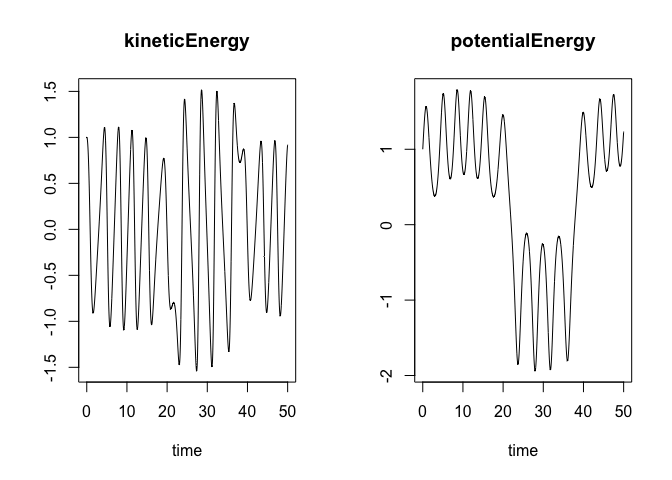
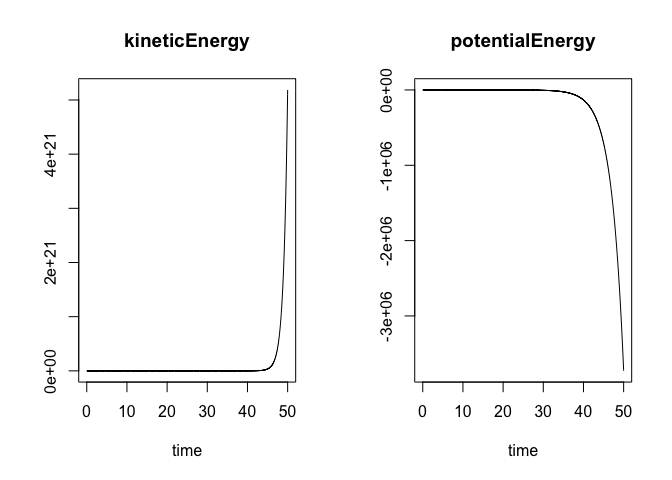
bistable

diff --git a/porting-bistable-oscillator-plus-excitation/README.md b/porting-bistable-oscillator-plus-excitation/README.md
@@ -1,15 +1,6 @@
 simecol bistable
 ================
 
-### vensim mode 
- 
-
-![alt text](bso/bistableOscExitation.png "optional title")
-
-
-### simecol mode 
-
-
 ``` r
 library("simecol")
 ```
@@ -32,7 +23,7 @@ bis.model <- new("odeModel",                   # object class = 'odeModel'
             kineticEnergy <- changedt
             potentialEnergy <- change0dt
             
-            list(c(potentialEnergy, kineticEnergy))    # object attributes (data) 
+            list(c(kineticEnergy, potentialEnergy))    # object attributes (data) 
             
             # change0 = potential energy - POWER(potential energy ,3)  - friction*kinetic energy + Excitation
             # change = kinetic energy
@@ -49,7 +40,7 @@ bis.model <- new("odeModel",                   # object class = 'odeModel'
         times = seq(0, 50, .015625),
         parms = c(factor=1, friction=.01),
         init = c(kineticEnergy=1, potentialEnergy=1),
-        solver = "rk4"                      # 'lsoda' available for 'odemodel' class
+        solver = "lsoda"                      # 'lsoda' available for 'odemodel' class
         
       )
 ```
@@ -93,12 +84,12 @@ head(out(bis.sim))
 ```
 
     ##       time kineticEnergy potentialEnergy
-    ## 1 0.000000     1.0000000        1.000000
-    ## 2 0.015625     0.9996153        1.015623
-    ## 3 0.031250     0.9987583        1.031236
-    ## 4 0.046875     0.9974063        1.046831
-    ## 5 0.062500     0.9955364        1.062402
-    ## 6 0.078125     0.9931257        1.077939
+    ## 1 0.000000      1.000000       1.0000000
+    ## 2 0.015625      1.015748       0.9998641
+    ## 3 0.031250      1.031744       0.9997681
+    ## 4 0.046875      1.047992       0.9997109
+    ## 5 0.062500      1.064495       0.9996914
+    ## 6 0.078125      1.081259       0.9997081
 
 ``` r
 main(bis.sim)
@@ -117,7 +108,7 @@ main(bis.sim)
     ##             kineticEnergy <- changedt
     ##             potentialEnergy <- change0dt
     ##             
-    ##             list(c(potentialEnergy, kineticEnergy))    # object attributes (data) 
+    ##             list(c(kineticEnergy, potentialEnergy))    # object attributes (data) 
     ##             
     ##             # change0 = potential energy - POWER(potential energy ,3)  - friction*kinetic energy + Excitation
     ##             # change = kinetic energy
@@ -172,7 +163,7 @@ equations(bis.sim)
 solver(bis.sim)
 ```
 
-    ## [1] "rk4"
+    ## [1] "lsoda"
 
 ``` r
 class(bis.sim)
@@ -194,29 +185,30 @@ str(bis.sim)
     ##   ..@ observer : NULL
     ##   ..@ main     :function (times, y, parms)  
     ##   .. ..- attr(*, "srcref")=Class 'srcref'  atomic [1:8] 6 17 26 10 17 10 6 26
-    ##   .. .. .. ..- attr(*, "srcfile")=Classes 'srcfilecopy', 'srcfile' <environment: 0x7fabdbf14348> 
+    ##   .. .. .. ..- attr(*, "srcfile")=Classes 'srcfilecopy', 'srcfile' <environment: 0x7fd3f45f3348> 
     ##   ..@ equations:List of 4
     ##   .. ..$ excite :function (i)  
     ##   .. .. ..- attr(*, "srcref")=Class 'srcref'  atomic [1:8] 28 21 28 51 21 51 28 28
-    ##   .. .. .. .. ..- attr(*, "srcfile")=Classes 'srcfilecopy', 'srcfile' <environment: 0x7fabdbf14348> 
+    ##   .. .. .. .. ..- attr(*, "srcfile")=Classes 'srcfilecopy', 'srcfile' <environment: 0x7fd3f45f3348> 
     ##   .. ..$ power  :function (i)  
     ##   .. .. ..- attr(*, "srcref")=Class 'srcref'  atomic [1:8] 29 20 29 36 20 36 29 29
-    ##   .. .. .. .. ..- attr(*, "srcfile")=Classes 'srcfilecopy', 'srcfile' <environment: 0x7fabdbf14348> 
+    ##   .. .. .. .. ..- attr(*, "srcfile")=Classes 'srcfilecopy', 'srcfile' <environment: 0x7fd3f45f3348> 
     ##   .. ..$ change :function (i)  
     ##   .. .. ..- attr(*, "srcref")=Class 'srcref'  atomic [1:8] 30 21 30 35 21 35 30 30
-    ##   .. .. .. .. ..- attr(*, "srcfile")=Classes 'srcfilecopy', 'srcfile' <environment: 0x7fabdbf14348> 
+    ##   .. .. .. .. ..- attr(*, "srcfile")=Classes 'srcfilecopy', 'srcfile' <environment: 0x7fd3f45f3348> 
     ##   .. ..$ change0:function (h, i, j, k, t)  
     ##   .. .. ..- attr(*, "srcref")=Class 'srcref'  atomic [1:8] 31 22 31 83 22 83 31 31
-    ##   .. .. .. .. ..- attr(*, "srcfile")=Classes 'srcfilecopy', 'srcfile' <environment: 0x7fabdbf14348> 
+    ##   .. .. .. .. ..- attr(*, "srcfile")=Classes 'srcfilecopy', 'srcfile' <environment: 0x7fd3f45f3348> 
     ##   ..@ times    : num [1:3201] 0 0.0156 0.0312 0.0469 0.0625 ...
     ##   ..@ inputs   : NULL
-    ##   ..@ solver   : chr "rk4"
+    ##   ..@ solver   : chr "lsoda"
     ##   ..@ out      : deSolve [1:3201, 1:3] 0 0.0156 0.0312 0.0469 0.0625 ...
-    ##   .. ..- attr(*, "istate")= int [1:21] 0 3200 12801 NA NA NA NA NA NA NA ...
     ##   .. ..- attr(*, "dimnames")=List of 2
     ##   .. .. ..$ : NULL
     ##   .. .. ..$ : chr [1:3] "time" "kineticEnergy" "potentialEnergy"
+    ##   .. ..- attr(*, "istate")= int [1:21] 2 3470 5038 NA 3 3 0 52 22 NA ...
+    ##   .. ..- attr(*, "rstate")= num [1:5] 0.0156 0.0156 50.0035 0 11.6216
     ##   .. ..- attr(*, "lengthvar")= int 2
     ##   .. ..- attr(*, "class")= chr [1:2] "deSolve" "matrix"
-    ##   .. ..- attr(*, "type")= chr "rk"
+    ##   .. ..- attr(*, "type")= chr "lsoda"
     ##   ..@ initfunc : NULL

diff --git a/porting-bistable-oscillator-plus-excitation/bistableOscExc.md b/porting-bistable-oscillator-plus-excitation/bistableOscExc.md
@@ -23,7 +23,7 @@ bis.model <- new("odeModel",                   # object class = 'odeModel'
             kineticEnergy <- changedt
             potentialEnergy <- change0dt
             
-            list(c(potentialEnergy, kineticEnergy))    # object attributes (data) 
+            list(c(kineticEnergy, potentialEnergy))    # object attributes (data) 
             
             # change0 = potential energy - POWER(potential energy ,3)  - friction*kinetic energy + Excitation
             # change = kinetic energy
@@ -40,7 +40,7 @@ bis.model <- new("odeModel",                   # object class = 'odeModel'
         times = seq(0, 50, .015625),
         parms = c(factor=1, friction=.01),
         init = c(kineticEnergy=1, potentialEnergy=1),
-        solver = "rk4"                      # 'lsoda' available for 'odemodel' class
+        solver = "lsoda"                      # 'lsoda' available for 'odemodel' class
         
       )
 ```
@@ -84,12 +84,12 @@ head(out(bis.sim))
 ```
 
     ##       time kineticEnergy potentialEnergy
-    ## 1 0.000000     1.0000000        1.000000
-    ## 2 0.015625     0.9996153        1.015623
-    ## 3 0.031250     0.9987583        1.031236
-    ## 4 0.046875     0.9974063        1.046831
-    ## 5 0.062500     0.9955364        1.062402
-    ## 6 0.078125     0.9931257        1.077939
+    ## 1 0.000000      1.000000       1.0000000
+    ## 2 0.015625      1.015748       0.9998641
+    ## 3 0.031250      1.031744       0.9997681
+    ## 4 0.046875      1.047992       0.9997109
+    ## 5 0.062500      1.064495       0.9996914
+    ## 6 0.078125      1.081259       0.9997081
 
 ``` r
 main(bis.sim)
@@ -108,7 +108,7 @@ main(bis.sim)
     ##             kineticEnergy <- changedt
     ##             potentialEnergy <- change0dt
     ##             
-    ##             list(c(potentialEnergy, kineticEnergy))    # object attributes (data) 
+    ##             list(c(kineticEnergy, potentialEnergy))    # object attributes (data) 
     ##             
     ##             # change0 = potential energy - POWER(potential energy ,3)  - friction*kinetic energy + Excitation
     ##             # change = kinetic energy
@@ -163,7 +163,7 @@ equations(bis.sim)
 solver(bis.sim)
 ```
 
-    ## [1] "rk4"
+    ## [1] "lsoda"
 
 ``` r
 class(bis.sim)
@@ -185,29 +185,30 @@ str(bis.sim)
     ##   ..@ observer : NULL
     ##   ..@ main     :function (times, y, parms)  
     ##   .. ..- attr(*, "srcref")=Class 'srcref'  atomic [1:8] 6 17 26 10 17 10 6 26
-    ##   .. .. .. ..- attr(*, "srcfile")=Classes 'srcfilecopy', 'srcfile' <environment: 0x7fabdbf14348> 
+    ##   .. .. .. ..- attr(*, "srcfile")=Classes 'srcfilecopy', 'srcfile' <environment: 0x7fd3f45f3348> 
     ##   ..@ equations:List of 4
     ##   .. ..$ excite :function (i)  
     ##   .. .. ..- attr(*, "srcref")=Class 'srcref'  atomic [1:8] 28 21 28 51 21 51 28 28
-    ##   .. .. .. .. ..- attr(*, "srcfile")=Classes 'srcfilecopy', 'srcfile' <environment: 0x7fabdbf14348> 
+    ##   .. .. .. .. ..- attr(*, "srcfile")=Classes 'srcfilecopy', 'srcfile' <environment: 0x7fd3f45f3348> 
     ##   .. ..$ power  :function (i)  
     ##   .. .. ..- attr(*, "srcref")=Class 'srcref'  atomic [1:8] 29 20 29 36 20 36 29 29
-    ##   .. .. .. .. ..- attr(*, "srcfile")=Classes 'srcfilecopy', 'srcfile' <environment: 0x7fabdbf14348> 
+    ##   .. .. .. .. ..- attr(*, "srcfile")=Classes 'srcfilecopy', 'srcfile' <environment: 0x7fd3f45f3348> 
     ##   .. ..$ change :function (i)  
     ##   .. .. ..- attr(*, "srcref")=Class 'srcref'  atomic [1:8] 30 21 30 35 21 35 30 30
-    ##   .. .. .. .. ..- attr(*, "srcfile")=Classes 'srcfilecopy', 'srcfile' <environment: 0x7fabdbf14348> 
+    ##   .. .. .. .. ..- attr(*, "srcfile")=Classes 'srcfilecopy', 'srcfile' <environment: 0x7fd3f45f3348> 
     ##   .. ..$ change0:function (h, i, j, k, t)  
     ##   .. .. ..- attr(*, "srcref")=Class 'srcref'  atomic [1:8] 31 22 31 83 22 83 31 31
-    ##   .. .. .. .. ..- attr(*, "srcfile")=Classes 'srcfilecopy', 'srcfile' <environment: 0x7fabdbf14348> 
+    ##   .. .. .. .. ..- attr(*, "srcfile")=Classes 'srcfilecopy', 'srcfile' <environment: 0x7fd3f45f3348> 
     ##   ..@ times    : num [1:3201] 0 0.0156 0.0312 0.0469 0.0625 ...
     ##   ..@ inputs   : NULL
-    ##   ..@ solver   : chr "rk4"
+    ##   ..@ solver   : chr "lsoda"
     ##   ..@ out      : deSolve [1:3201, 1:3] 0 0.0156 0.0312 0.0469 0.0625 ...
-    ##   .. ..- attr(*, "istate")= int [1:21] 0 3200 12801 NA NA NA NA NA NA NA ...
     ##   .. ..- attr(*, "dimnames")=List of 2
     ##   .. .. ..$ : NULL
     ##   .. .. ..$ : chr [1:3] "time" "kineticEnergy" "potentialEnergy"
+    ##   .. ..- attr(*, "istate")= int [1:21] 2 3470 5038 NA 3 3 0 52 22 NA ...
+    ##   .. ..- attr(*, "rstate")= num [1:5] 0.0156 0.0156 50.0035 0 11.6216
     ##   .. ..- attr(*, "lengthvar")= int 2
     ##   .. ..- attr(*, "class")= chr [1:2] "deSolve" "matrix"
-    ##   .. ..- attr(*, "type")= chr "rk"
+    ##   .. ..- attr(*, "type")= chr "lsoda"
     ##   ..@ initfunc : NULL
